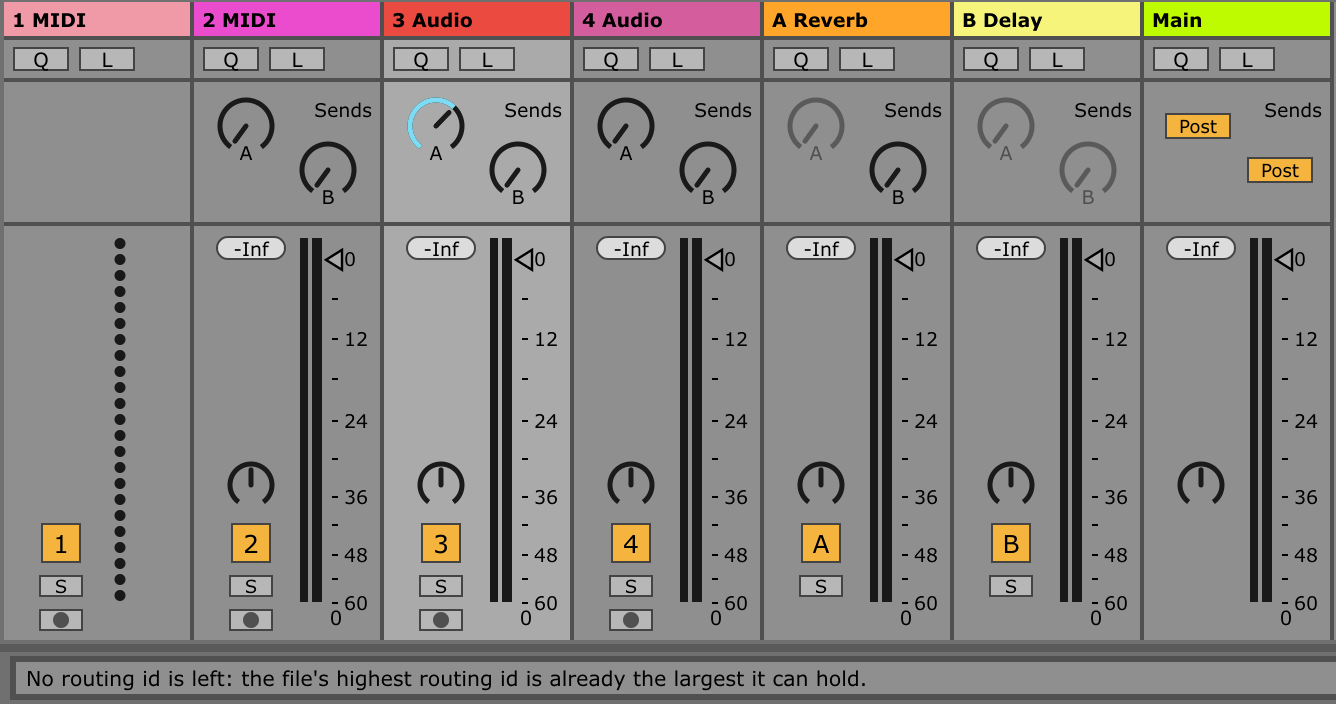
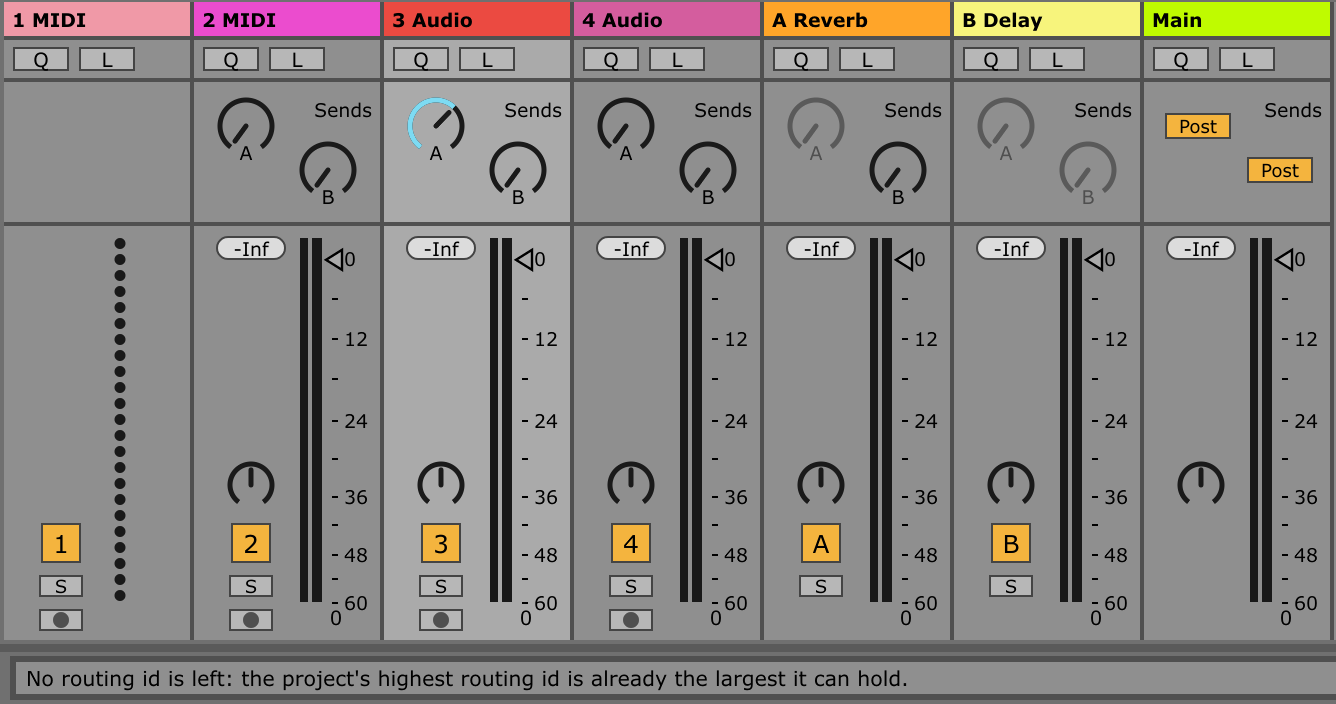
window: the refusal names the project, the id comment says at or below INT64_MAX (B2 review)
Three minors from the B2 reviews, the two cheap ones taken, the third verified:

- `send_edits.hpp`: `kSendNoIdLeft` says "the project's highest routing id", the
  shell's word for the open document in every other Status Bar line ("needs an
  open project"); the comment above it follows. The comment on `newIds` said the
  ids must fit "below INT64_MAX" where the code lets the last one equal it: now
  "at or below", with why 0 is never an id (`maxRoutingId` is at least 0). No
  code change.
- `test_ui_shell.cpp`: the check's words follow the string; parity-7.6 row 9 says
  "the largest the project can hold".
- `collab/window/pictures/2026-11-08-send-ids.png`: cut again from the new
  `adi-send-no-id.png`, the only render of the 69 whose md5 changed.
- The strict clang pass (strict.bat: VS clang-tidy, clang-diagnostic-*, -Wall
  -Wextra -Wpedantic -Wconversion -Wsign-conversion -Wshadow, with
  _CRT_USE_BUILTIN_OFFSETOF so blob.hpp's offsetof asserts compile) is clean on
  ui_mixer.cpp, test_ui_seams.cpp and test_ui_shell.cpp: 0 warnings, 0 errors.

Built as ui.yml builds (Ninja, Debug, MSVC /WX, JUCE on, Pd off): seams 483,
shell 923, document 99, window state 62, all passing; ADI.exe links.

Changed region(s): [[0.2148, 0.9375, 0.6751, 1.0]]

diff --git a/adi_daw/src/adi/ui/send_edits.hpp b/adi_daw/src/adi/ui/send_edits.hpp
@@ -58,17 +58,18 @@ inline bool sendOn(const engine::TrackNode &source, const engine::SendRoute *s) 
     return s != nullptr ? s->enabled : source.kind != "return";
 }
 // Why a new send's batch is refused when no routing id is left (window log N39): the op carries its id
-// (ADR-0021), and the snapshot's highest is already the largest the file can hold.
+// (ADR-0021), and the snapshot's highest is already the largest the project can hold. "The project" is
+// what every other Status Bar line of the shell calls the open document.
 inline constexpr const char *kSendNoIdLeft =
-    "No routing id is left: the file's highest routing id is already the largest it can hold.";
+    "No routing id is left: the project's highest routing id is already the largest it can hold.";
 namespace send_edits_detail {
 // A new row's id: one past the highest routing id of any kind, `Snapshot::maxRoutingId` (#403, window
 // log N39), so it cannot collide with a main, sidechain, VCA or cue row, which the snapshot's `sends`
 // leave out; a batch that makes several rows takes the next ids after it. The snapshot's maximum is an
 // observation, not an allocator: the batch commits against the head it read, and another writer's row
 // in between refuses it there. A frame never holds a send above its maximum (the engine's doc).
-// The first of `count` new ids; 0 when `count` ids do not fit below INT64_MAX, which refuses the edit
-// with `kSendNoIdLeft`.
+// The first of `count` new ids; 0 when `count` ids do not fit at or below INT64_MAX (the last may equal
+// it), which refuses the edit with `kSendNoIdLeft`. 0 is never an id: `maxRoutingId` is at least 0.
 inline std::int64_t newIds(const engine::Snapshot &snapshot, std::int64_t count) noexcept {
     const auto highest = snapshot.maxRoutingId;
     return count <= std::numeric_limits<std::int64_t>::max() - highest ? highest + 1 : 0;

diff --git a/adi_daw/tests/test_ui_shell.cpp b/adi_daw/tests/test_ui_shell.cpp
@@ -1783,7 +1783,7 @@ void sendKnobs(AppCommands &commands, const std::filesystem::path &dir) {
         const auto stepAtTop = submitter.nextUndo() ? submitter.nextUndo()->txnId : 0;
         check(column != nullptr && column->sendKnobs().size() == 2 && findSend(root.reader().sends(), 3, 6) == nullptr &&
                   root.reader().get() != nullptr && root.reader().get()->maxRoutingId == std::numeric_limits<std::int64_t>::max(),
-              "3 Audio's send B has no row, and the file's highest routing id is the largest it can hold");
+              "3 Audio's send B has no row, and the project's highest routing id is the largest it can hold");
         if (column != nullptr && column->sendKnobs().size() == 2) {
             column->sendKnobs()[1]->setValue(-6, juce::sendNotificationSync);
             root.frame();

diff --git a/adi_daw/collab/window/parity-7.6-mixer.md b/adi_daw/collab/window/parity-7.6-mixer.md
@@ -14,7 +14,7 @@ Drafted by the window lane (ADR-0208) from the Live 12 manual (`live12-manual-en
 | 6 | The Track Activator mutes the track's output and shows its number; with several tracks selected, toggling one toggles them all; 0 deactivates the selected track; F1…F8 the first eight tracks | §18.1, p. 392; §42.19 (Deactivate Selected Track, 0; Activate/Deactivate Track 1…8, F1…F8) | Built, through `track.setMute`. With several tracks selected and the clicked one among them, all of them to its new state, one step; 0, when the Arrangement has no clip or time selected, throws the selected tracks' activators; F1 to F8 the first eight numbered tracks, each alone (`window/activator-rules`). F1 to F8 held 500 ms or more latch momentarily (§42.25): let go, the step the press made is undone while it is still the latest (`window/key-latch`) | built |
 | 7 | Solo solos the track | §18.1, p. 392; §42.19 (Solo Selected Tracks, S) | Built, through `track.setSolo`. Live's rules (`window/solo-rules`): soloing unsolos every other track while Exclusive Solo is on (`record.exclusiveSolo`, on by default), Ctrl/Cmd adds; with several tracks selected, a Solo switch among them solos them all; S solos or unsolos the selected tracks; each one undo step. S held 500 ms or more latches momentarily (§42.25): let go, the solo is undone while it is still the latest step, and an edit since stays (`window/key-latch`) | partial: Solo in Place and the cue path wait (N23); a group holding a soloed track shows its Solo half coloured (`window/group-strip`) |
 | 8 | Arm Recording | §18.1, p. 392 | — | open: recording is not built |
-| 9 | One send knob per return on every track; return strips after the tracks | ADR-0203 d3; ADR-0204 d5 (a new send starts fully down) | Every track and group, and every return, has one send per return, the returns in the arrangement's order; Main has none. In the track controls Live's 29-unit value boxes, three to a row, on the row under volume and pan, with ADI-Q and ADI-L on the row after them; in the Mixer View Live's knobs under "Sends", A on the left and each next one to the side and 22 units lower, lettered as its return, every strip (Main's too) keeping the section's room so the mixers line up, and a short view leaving out what does not fit. A knob reads its routing row (`Snapshot::sends`, #309), fully down (-inf) without one; a drag commits on release and a typed value at once, `routing.setGain` on the row, or `routing.connect` then `routing.setGain` for a new one, as one undo step ("Change Send Level"); the bottom stop writes silence (-150 dB, SPEC §6.9), the top is 0 dB; a click that moves nothing writes nothing. A return's own sends are dimmed and take no drag until Enable Send, in the send's right-click menu, which makes the row fully down or switches it back on; unticked, it switches the row off and keeps it; a return may feed itself (`window/send-knobs`). A new send's id is one past the highest routing id of any kind in the snapshot (`Snapshot::maxRoutingId`, #403), so it cannot collide with a main, sidechain, VCA or cue row, which the snapshot's sends leave out; the rows of one batch (Enable All Sends) take consecutive ids after it; with the highest id already the largest the file can hold, the edit is refused whole, the knob goes back to its row and the Status Bar says why (`window/send-ids`, N39 struck). The return strips stand after the tracks since `window/main-foot` (parity-7.3 row 17). Each return's Pre/Post switch, on its row where a track has Arm and in Main's Sends section in the Mixer View, is the return's own (`TrackNode::returnSendTap`, #405): thrown, it writes one `return.setSendTap`, one undo step ("Change Pre/Post"), which the engine spreads over every send into the return; it holds with no send into the return, and a send made afterwards taps as it says, with nothing added to the send's batch once the return holds a choice (the older-file case is in the partial column) (`window/return-main-rows`, `window/return-pre-post`, row 17). Live's Insert Return Track (Ctrl/Cmd+Alt+T, the Create menu): a return after the others, named by its letter ("C Return"), selected, every track given a send to it; Enable All Sends in a return's send menu: every send of the return on, one undo step; Hide/Show Return Tracks (Ctrl/Cmd+Alt+R, the View menu): the returns out of the lanes, the track controls and the Mixer View, kept per window (`window/return-commands`) | partial: Return Tracks is in the View menu's Mixer Controls submenu, as Live's (`window/view-submenus`); Hide/Show Sends (Ctrl/Cmd+Alt+S) and the strip's R selector are built (`window/view-selectors`); Live scrolls a Sends section that does not fit, ADI leaves the rest out; an older file whose sends into a return are all Pre with no choice written reads Pre and a new send still carries `routing.setPreFader`, as the engine's own `prepareSendToReturn` does, and one whose sends are mixed reads Post until the switch is thrown (N42 struck). Measure on Live 11/12: a new return's name, the send knob's travel (ADI uses the volume box's taper over -inf to 0 dB), the boxes' wrap past three returns, and a new send's level (AWAITING row 7) |
+| 9 | One send knob per return on every track; return strips after the tracks | ADR-0203 d3; ADR-0204 d5 (a new send starts fully down) | Every track and group, and every return, has one send per return, the returns in the arrangement's order; Main has none. In the track controls Live's 29-unit value boxes, three to a row, on the row under volume and pan, with ADI-Q and ADI-L on the row after them; in the Mixer View Live's knobs under "Sends", A on the left and each next one to the side and 22 units lower, lettered as its return, every strip (Main's too) keeping the section's room so the mixers line up, and a short view leaving out what does not fit. A knob reads its routing row (`Snapshot::sends`, #309), fully down (-inf) without one; a drag commits on release and a typed value at once, `routing.setGain` on the row, or `routing.connect` then `routing.setGain` for a new one, as one undo step ("Change Send Level"); the bottom stop writes silence (-150 dB, SPEC §6.9), the top is 0 dB; a click that moves nothing writes nothing. A return's own sends are dimmed and take no drag until Enable Send, in the send's right-click menu, which makes the row fully down or switches it back on; unticked, it switches the row off and keeps it; a return may feed itself (`window/send-knobs`). A new send's id is one past the highest routing id of any kind in the snapshot (`Snapshot::maxRoutingId`, #403), so it cannot collide with a main, sidechain, VCA or cue row, which the snapshot's sends leave out; the rows of one batch (Enable All Sends) take consecutive ids after it; with the highest id already the largest the project can hold, the edit is refused whole, the knob goes back to its row and the Status Bar says why (`window/send-ids`, N39 struck). The return strips stand after the tracks since `window/main-foot` (parity-7.3 row 17). Each return's Pre/Post switch, on its row where a track has Arm and in Main's Sends section in the Mixer View, is the return's own (`TrackNode::returnSendTap`, #405): thrown, it writes one `return.setSendTap`, one undo step ("Change Pre/Post"), which the engine spreads over every send into the return; it holds with no send into the return, and a send made afterwards taps as it says, with nothing added to the send's batch once the return holds a choice (the older-file case is in the partial column) (`window/return-main-rows`, `window/return-pre-post`, row 17). Live's Insert Return Track (Ctrl/Cmd+Alt+T, the Create menu): a return after the others, named by its letter ("C Return"), selected, every track given a send to it; Enable All Sends in a return's send menu: every send of the return on, one undo step; Hide/Show Return Tracks (Ctrl/Cmd+Alt+R, the View menu): the returns out of the lanes, the track controls and the Mixer View, kept per window (`window/return-commands`) | partial: Return Tracks is in the View menu's Mixer Controls submenu, as Live's (`window/view-submenus`); Hide/Show Sends (Ctrl/Cmd+Alt+S) and the strip's R selector are built (`window/view-selectors`); Live scrolls a Sends section that does not fit, ADI leaves the rest out; an older file whose sends into a return are all Pre with no choice written reads Pre and a new send still carries `routing.setPreFader`, as the engine's own `prepareSendToReturn` does, and one whose sends are mixed reads Post until the switch is thrown (N42 struck). Measure on Live 11/12: a new return's name, the send knob's travel (ADI uses the volume box's taper over -inf to 0 dB), the boxes' wrap past three returns, and a new send's level (AWAITING row 7) |
 | 10 | A loudness meter (LUFS and true peak) on the Main track only | ADR-0203 d14 | — | open: Main is known since #299; it needs a loudness meter's DSP (N13) |
 | 11 | The ADI-Q and ADI-L slots on every channel and group, present but off | ADR-0204 d1 | Two slots on every row, off; a click opens the Mix View's STACK on that channel, ADR-0204 d1's one window (ADR-0209 d11), and says the slot waits for the plug-in (`window/mix-view-stack`) | built (present and off); filled by the engine's slots and the clones lane |
 | 12 | Auto Gain Stage, ADI's one offline command | ADR-0195 d4, ADR-0203 d14 | The mixer's right-click menu: gated RMS at -18 dBFS or integrated loudness at -18 LUFS; one undo step | built |
